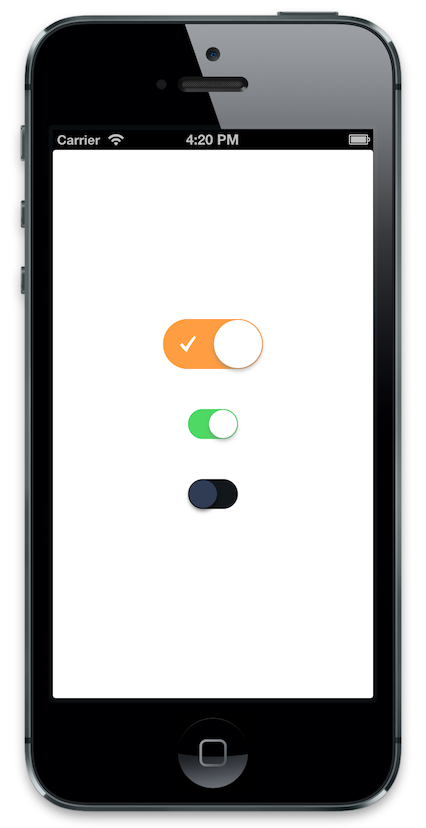
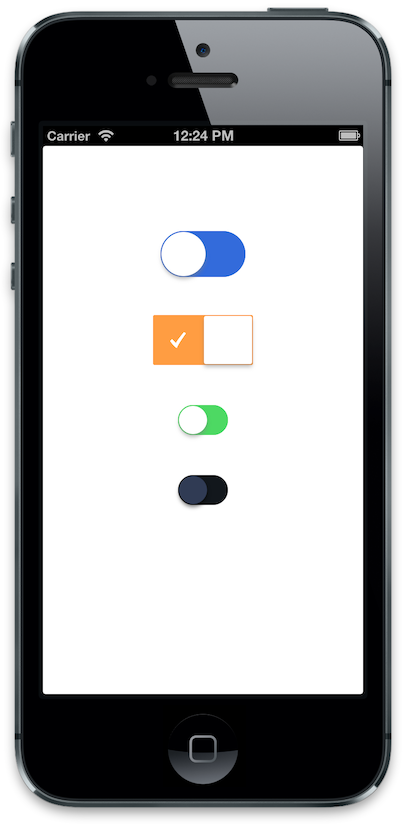
Update example, example image and readme

diff --git a/README.md b/README.md
@@ -47,6 +47,12 @@ You can resize the switch frame to whatever you like to make fatter/skinnier con
 mySwitch.frame = CGRectMake(0, 0, 100, 50);
 ```
 
+You can turn off the rounded look by setting the `isRounded` property to `NO`
+
+```objective-c
+mySwitch.isRounded = NO;
+```
+
 ## Requirements
 
 SevenSwitch requires iOS 5.0 and above.
